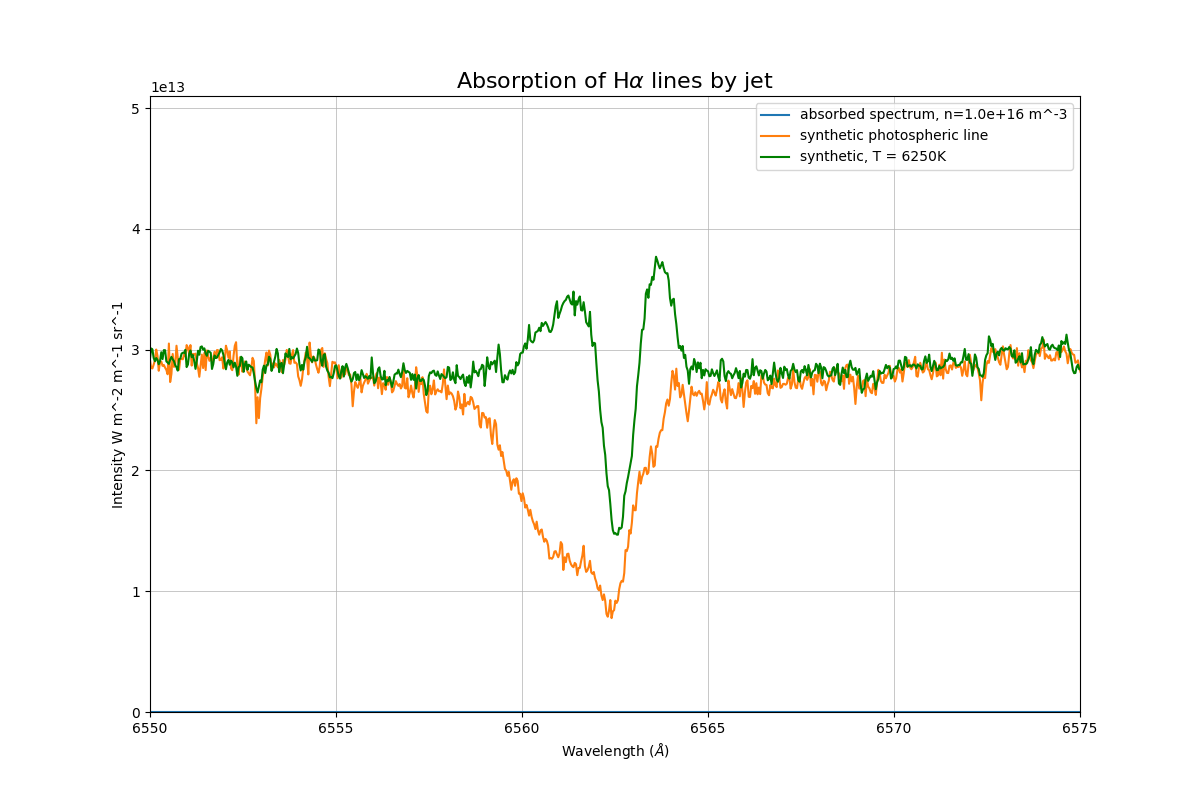
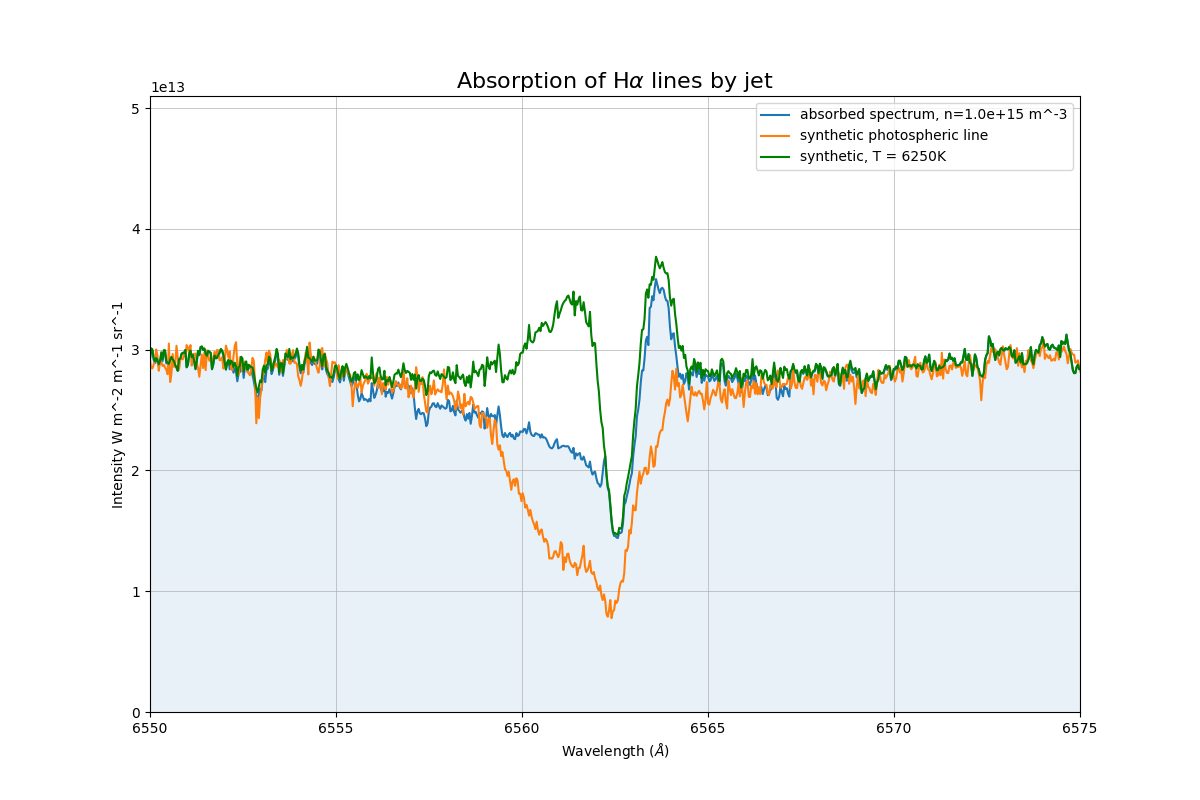
sobolev comments updated

diff --git a/tests/main.py b/tests/main.py
@@ -245,7 +245,7 @@ jet = Cone.Stellar_jet_simple(inclination, jet_angle,
                               jet_type,
                               jet_centre=secondary_orbit[phase_test]['position'])
 jet_temperature         = 5000      # The jet temperature (K)
-jet_density_max         = 9.99e15      # The jet number density at its outer edge (m^-3)
+jet_density_max         = 1.e15      # The jet number density at its outer edge (m^-3)
 
 """
 =======================================================================
@@ -275,8 +275,8 @@ for phase in phases:
             jet._set_gridpoints(coordAGB, gridpoints_LOS)
 
             if jet.gridpoints is None:
-                intensity_point = list(0.*spectra_background_I[phase][spectrum])
-                # intensity_point = list(spectra_background_I[phase][spectrum])
+                # intensity_point = list(0.*spectra_background_I[phase][spectrum])
+                intensity_point = list(spectra_background_I[phase][spectrum])
 
             if jet.gridpoints is not None:
 
@@ -316,8 +316,8 @@ for phase in phases:
                 # plt.show()
                 intensity_point = []
                 for wavebin, wave in enumerate(spectra_wavelengths):
-                    # intensity_point.append(spectra_background_I[phase][spectrum][wavebin])
-                    intensity_point.append(0)
+                    intensity_point.append(spectra_background_I[phase][spectrum][wavebin])
+                    # intensity_point.append(0)
                     if wave > 6540e-10 and wave < 6580e-10:
                         frequency       = constants.c / wave
                         # delta_tau       = jet_delta_gridpoints_m \

diff --git a/jet_accretion/radiative_transfer.py b/jet_accretion/radiative_transfer.py
@@ -178,16 +178,16 @@ def opacity_sobolev(nu, T, n_l, rv, velocity_gradient, delta_lambda, points, lin
         The wavelength in units of Hz
     T : float
         Temperature in units of Kelvin
-    n_HI : float
-        The number density of HI in units of m^-3
-    n_e : float
-        The electron number density in units of m^-3
     n_l : float
         The number density of the lower energy level in units of m^-3
-    Blu : float
-        The einstein coefficient for excitation
     rv : float
         Radial velocity of the gridpoint in m^1 s^-1
+    velocity_gradient : float
+        The velocity gradient of the gridpoint in s^-1
+    delta_lambda : float
+        The wavelength bin size
+    points : integer
+        The number of gridpoints along the path of the ray through the jet
 
     returns
     =======
@@ -207,7 +207,7 @@ def opacity_sobolev(nu, T, n_l, rv, velocity_gradient, delta_lambda, points, lin
     C_osc                  = ( np.pi * consts.e.esu.value**2 / (consts.m_e.cgs.value * consts.c.cgs.value ) )
     abs_coeff_cgs          = np.zeros(points-1)
     indices                = np.where(diff_nu < delta_nu)
-    abs_coeff_cgs[indices] = C_osc * f_line * c / nu * n_l_cgs[indices] * (2. * delta_nu)**-1 * velocity_gradient[indices]**-1 * ( 1 - np.exp(-constants.h * nu_0 / (constants.k * T )))
+    abs_coeff_cgs[indices] = C_osc * f_line * c / nu * n_l_cgs[indices] * (2. * delta_nu[indices])**-1 * velocity_gradient[indices]**-1 * ( 1 - np.exp(-constants.h * nu_0 / (constants.k * T )))
     abs_coeff_si           = abs_coeff_cgs * 1e2
     return abs_coeff_si
 

diff --git a/jet_accretion/cut_wavelength.py b/jet_accretion/cut_wavelength.py
@@ -1,0 +1,45 @@
+import numpy as np
+import sys
+import os
+
+
+def cut_wavelength_region(data, data_wavelength, wave_min, wave_max):
+
+    """
+    Cut the data array according to the minimum and maximum wavelength needed
+    """
+    wavmin = min(range(len(data_wavelength)), key = lambda j: abs(data_wavelength[j]- w_begin))
+    wavmax = min(range(len(data_wavelength)), key = lambda j: abs(data_wavelength[j]- w_end))
+
+    wave = np.array(wav)
+    flux = np.array(fl)
+    if cut==False:
+
+        # Use the whole array to compute the equivalent width
+        # The median value is the continuum level
+        median_low  = np.median(flux[0:50])
+        median_high = np.median(flux[-50:-1])
+        median      = ( median_low + median_high ) / 2
+
+        delta_wave  = (wave[2:] - wave[:-2]) / 2.
+        integration = (1 - flux[1:-1]/median) * delta_wave
+        EW          = np.sum(integration)
+
+    else:
+        # Cut the wave and flux arrays to the region for which you want to
+        # calculate the equivalent width
+
+        indices     = np.where((wave_min < wave) & (wave < wave_max))
+        wave_cut    = wave[indices]
+        flux_cut    = flux[indices]
+
+        median_low  = np.median(flux_cut[0:50])
+        median_high = np.median(flux_cut[-50:-1])
+        median      = ( median_low + median_high ) / 2
+
+        delta_wave  = (wave_cut[2:] - wave_cut[:-2]) / 2.
+        integration = (1 - flux_cut[1:-1]/median) * delta_wave
+        EW          = np.sum(integration)
+
+
+    return EW
